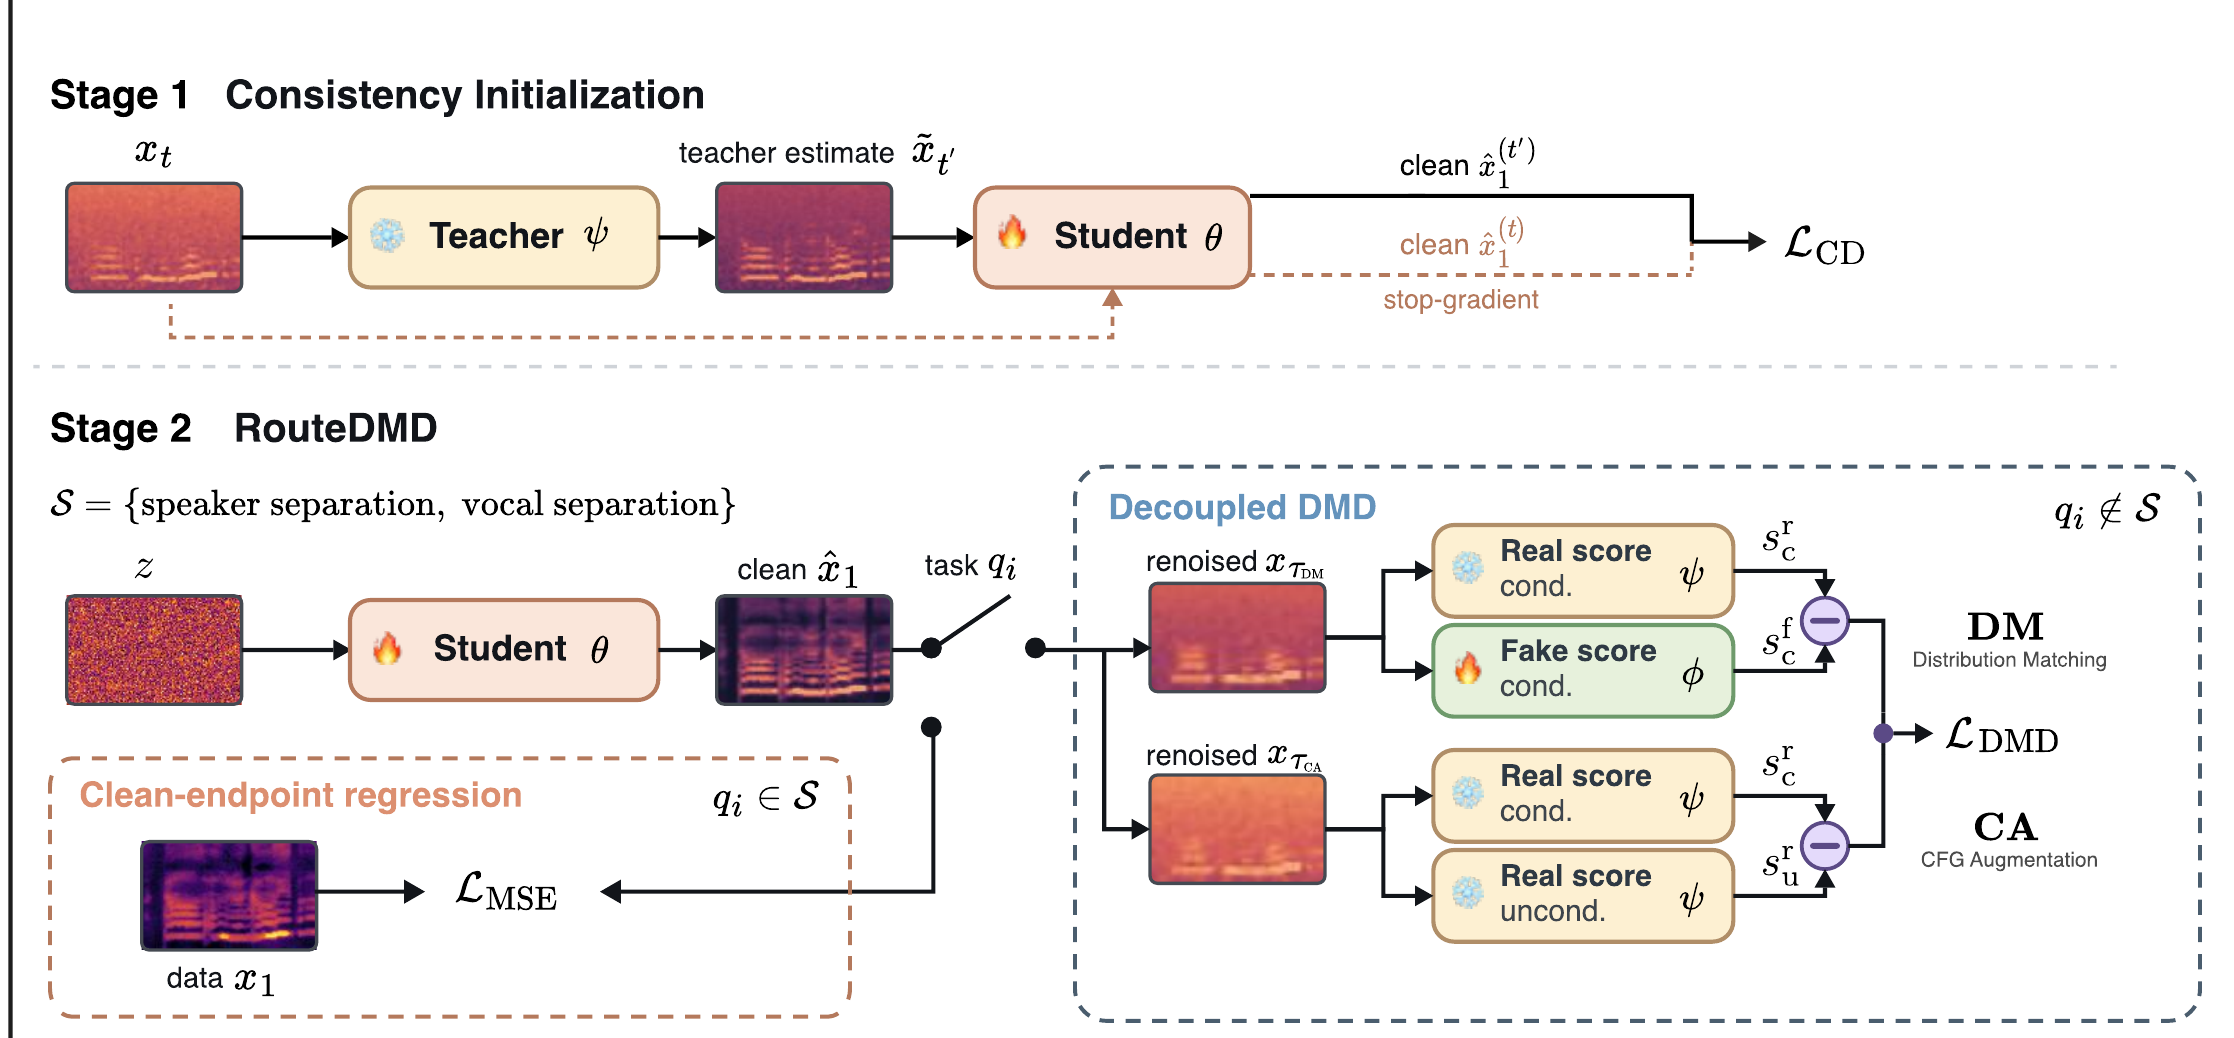
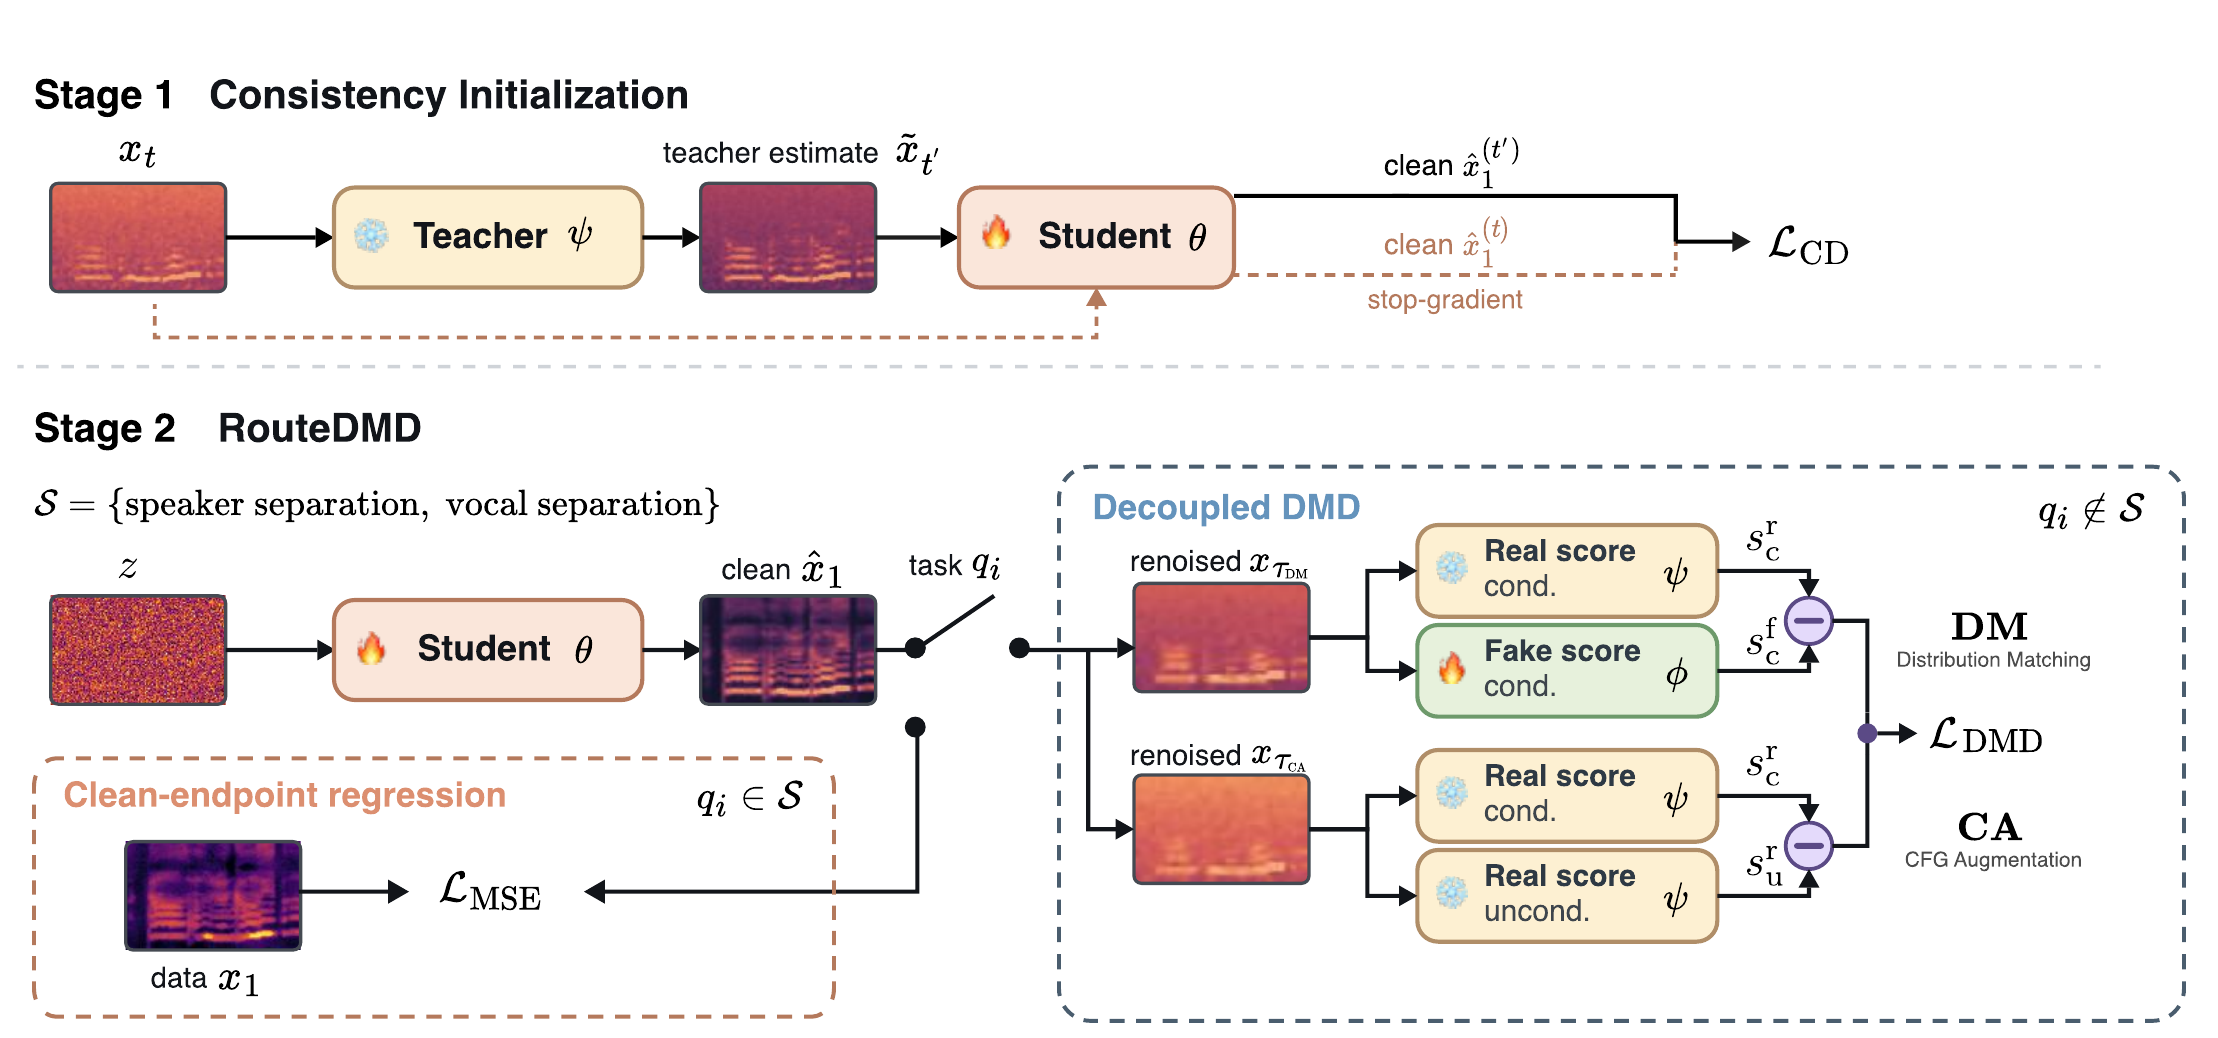
Sync abstract with tex, trim left black border on overview

diff --git a/index.html b/index.html
@@ -94,7 +94,7 @@
 
   <section>
     <h2>Abstract</h2>
-    <p class="abstract">Large-scale unified speech foundation models address diverse tasks, including text-to-speech (TTS) synthesis and speech editing. However, iterative flow-matching sampling and the overhead of classifier-free guidance (CFG) make inference expensive. Distribution matching distillation (DMD) approximates teacher quality in far fewer steps, but applying it to a unified multi-task model causes severe capability degradation, and existing speech distillation methods are evaluated only on generation tasks. We propose <b>RoutingDMD</b>, which assigns each class of tasks a dedicated objective: separation tasks are trained with a clean-endpoint regression loss on the ground-truth latent, while other tasks use the decoupled distribution-matching objective. The student is first initialized with consistency distillation, and CFG is replaced with adaptive projected guidance (APG) in teacher rollouts to suppress clipping artifacts. With four inference steps, the student matches the 32-step teacher and surpasses it on several tasks with a $4.5\times$ end-to-end speedup, without sacrificing task coverage.</p>
+    <p class="abstract">Large-scale unified speech foundation models address diverse tasks, including text-to-speech (TTS) synthesis and speech editing. However, iterative flow-matching sampling and the overhead of classifier-free guidance (CFG) make inference expensive. Distribution matching distillation (DMD) approximates teacher quality in far fewer steps, but applying it to a unified multi-task model causes severe capability degradation, and existing speech distillation methods are evaluated only on generation tasks. We propose Route-DMD, which assigns each class of tasks a dedicated objective: separation tasks are trained with a clean-endpoint regression loss on the ground-truth latent, while other tasks use the decoupled distribution-matching objective. The student is first initialized with consistency distillation, and CFG is replaced with adaptive projected guidance (APG) in teacher rollouts to suppress clipping artifacts. With four inference steps, the student matches the 32-step teacher and surpasses it on several tasks with a 4.5&times; end-to-end speedup, without sacrificing task coverage.</p>
   </section>
 
   <section class="overview">
